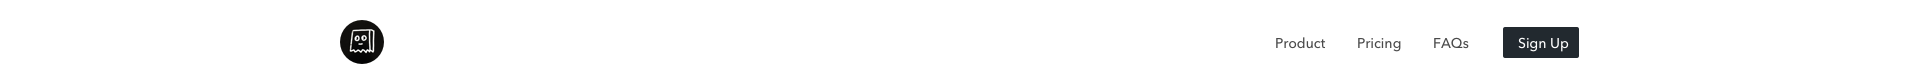
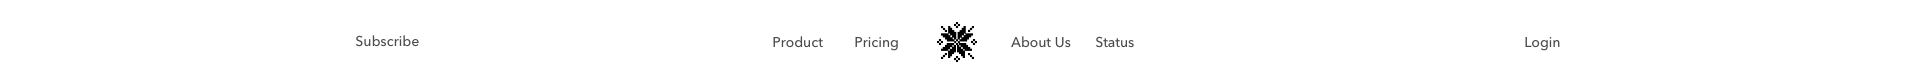
fix nav up

Changed region(s): [[0.6562, 0.3095, 0.8438, 0.6905], [0.4062, 0.3095, 0.5938, 0.7143], [0.1562, 0.2381, 0.2188, 0.7619]]

diff --git a/stitches.html b/stitches.html
@@ -6,21 +6,28 @@
     <link rel="stylesheet" type="text/css" href=./public/stitches.css>
     <title>Stitches</title>
   </head>
-  <body class="st"><nav class="font-sans bg-white text-center my-4 mx-auto max-w-sm overflow-hidden">
-  <img src="https://randomuser.me/api/portraits/women/44.jpg" class="h-16 sm:h-24 my-4 rounded-full" alt="avatar">
-  <p class="text-xl">Hyperyolo</p>
-  <p class="text-sm text-grey-dark leading-loose">twitter/@hyperyolo</p>
-</nav><nav class="font-sans bg-white text-center flex justify-between my-4 mx-auto max-w-xl overflow-hidden">
-  <a href="/" class="block text-left">
-    <img src="https://randomuser.me/api/portraits/women/44.jpg" class="h-12 sm:h-12 rounded-full" alt="avatar">
-  </a>
-  <ul class="text-sm text-grey-dark list-reset flex items-center">
-    <li><a href="#" class="inline-block py-2 px-3 text-grey-darkest hover:text-grey-dark no-underline">Products</a></li>
-    <li><a href="#" class="inline-block py-2 px-3 text-grey-darkest hover:text-grey-dark no-underline">Pricing</a></li>
-    <li><a href="#" class="inline-block py-2 px-3 text-grey-darkest hover:text-grey-dark no-underline">FAQs</a></li>
-    <button class="bg-transparent hover:bg-grey-darkest text-grey-darkest hover:text-white ml-4 py-2 px-3 border border-grey hover:border-transparent rounded">
-    Button
-    </button>
-  </ul>
-</nav></body>
+  <body>
+    <form class="font-sans text-sm rounded w-full max-w-xs mx-auto my-8 px-8 pt-6 pb-8">
+      <div class="relative border rounded mb-4 shadow appearance-none label-floating">
+        <input class="w-full py-2 px-3 text-grey-darker leading-normal rounded" id="username" type="text" placeholder="Username">
+        <label class="absolute block text-grey-darker pin-t pin-l w-full px-3 py-2 leading-normal" for="username">
+          Username
+        </label>
+      </div>
+      <div class="relative border rounded mb-4 shadow appearance-none label-floating">
+        <input class="w-full py-2 px-3 text-grey-darker leading-normal rounded" id="password" type="password" placeholder="Password">
+        <label class="absolute block text-grey-darker pin-t pin-l w-full px-3 py-2 leading-normal" for="password">
+          Password
+        </label>
+      </div>
+      <div class="flex items-center justify-between">
+        <button class="bg-grey-darkest hover:bg-black text-white py-2 px-4 rounded" type="button">
+        Sign In
+        </button>
+        <a class="inline-block align-baseline text-grey hover:text-grey-darker" href="#">
+          Forgot Password?
+        </a>
+      </div>
+    </form>
+  </body>
 </html>

diff --git a/templates/nav-4.html b/templates/nav-4.html
@@ -1,17 +1,19 @@
 <nav class="font-sans bg-white text-center flex justify-between items-center my-4 mx-auto max-w-xl overflow-hidden">
-  <button class="bg-transparent text-sm hover:text-grey-dark text-grey-darkest py-2 px-3 rounded">
-  Subscribe
-  </button>
+  <a href="#">
+    <img src="./logo.png" class="h-10" alt="logo">
+  </a>
   <ul class="text-sm text-grey-dark list-reset flex items-center">
     <li><a href="#" class="inline-block py-2 px-3 text-grey-darkest hover:text-grey-dark no-underline">Products</a></li>
     <li><a href="#" class="inline-block py-2 px-3 text-grey-darkest hover:text-grey-dark no-underline">Pricing</a></li>
-    <li class="px-6"><a href="/" >
-      <img src="./logo.png" class="h-10 sm:h-10 rounded-full" alt="logo">
-    </a></li>
     <li><a href="#" class="inline-block py-2 px-3 text-grey-darkest hover:text-grey-dark no-underline">About Us</a></li>
     <li><a href="#" class="inline-block py-2 px-3 text-grey-darkest hover:text-grey-dark no-underline">Status</a></li>
   </ul>
-  <button class="text-sm bg-grey-darkest hover:bg-grey-darker text-white ml-4 py-2 px-3 rounded">
-  Log In
-  </button>
+  <ul class="text-sm text-grey-dark list-reset flex items-center">
+    <li><a href="#" class="inline-block py-2 px-3 text-grey-darkest hover:text-grey-dark no-underline">Log In</a></li>
+    <li>
+      <button class="bg-grey-darkest hover:bg-grey-darker text-white ml-4 py-2 px-3 rounded">
+      Sign Up
+      </button>
+    </li>
+  </ul>
 </nav>

diff --git a/templates/nav-1.html b/templates/nav-1.html
@@ -1,5 +1,14 @@
-<nav class="font-sans bg-white text-center my-4 mx-auto max-w-sm overflow-hidden">
-  <img src="https://randomuser.me/api/portraits/women/44.jpg" class="h-16 sm:h-24 my-4 rounded-full" alt="avatar">
-  <p class="text-xl">Hyperyolo</p>
-  <p class="text-sm text-grey-dark leading-loose">twitter/@hyperyolo</p>
+<nav class="font-sans bg-white text-center flex justify-between my-4 mx-auto max-w-xl overflow-hidden">
+  <a href="/" class="block text-left">
+    <img src="./logo.png" class="h-10 sm:h-10 rounded-full" alt="logo">
+  </a>
+  <ul class="text-sm text-grey-dark list-reset flex items-center">
+    <li><a href="#" class="inline-block py-2 px-3 text-grey-darkest hover:text-grey-dark no-underline">Products</a></li>
+    <li><a href="#" class="inline-block py-2 px-3 text-grey-darkest hover:text-grey-dark no-underline">Pricing</a></li>
+    <li class="pr-2"><a href="#" class="inline-block py-2 px-3 text-grey-darkest hover:text-grey-dark no-underline">FAQs</a></li>
+    <li class="pl-2 border-l"><a href="#" class="inline-block py-2 px-3 text-grey-darkest hover:text-grey-dark no-underline">Log In</a></li>
+    <button class="bg-grey-darkest hover:bg-grey-darker text-white ml-4 py-2 px-3 rounded">
+    Sign Up
+    </button>
+  </ul>
 </nav>

diff --git a/templates/nav-3.html b/templates/nav-3.html
@@ -1,0 +1,20 @@
+<nav class="font-sans bg-white text-center flex justify-between my-4 mx-auto max-w-xl overflow-hidden items-center">
+  <div class="flex items-center">
+    <a href="/" class="mr-4 w-32">
+      <img src="./logo.png" class="rounded-full w-full" alt="logo">
+    </a>
+    <input type="search" placeholder="Search" class="text-sm transition focus:outline-0 border border-transparent focus:bg-white focus:border-grey-light placeholder-grey-darkest rounded bg-grey-lighter py-1 px-2 pl-10 appearance-none leading-normal ds-input">
+    <ul class="text-sm text-grey-dark list-reset flex items-center">
+      <li><a href="#" class="inline-block py-2 px-3 text-grey-darkest hover:text-grey-dark no-underline">Status</a></li>
+      <li><a href="#" class="inline-block py-2 px-3 text-grey-darkest hover:text-grey-dark no-underline">Questions</a></li>
+    </ul>
+  </div>
+  <ul class="text-sm text-grey-dark list-reset flex items-center">
+    <li><a href="#" class="inline-block py-2 px-3 text-grey-darkest hover:text-grey-dark no-underline">Log In</a></li>
+    <li>
+          <button class="bg-grey-darkest hover:bg-grey-darker text-white ml-4 py-2 px-3 rounded">
+    Sign Up
+    </button>
+    </li>
+  </ul>
+</nav>

diff --git a/templates/form-1.html b/templates/form-1.html
@@ -1,0 +1,22 @@
+<form class="font-sans text-sm rounded w-full max-w-xs mx-auto my-8 px-8 pt-6 pb-8">
+  <div class="relative border rounded mb-4 shadow appearance-none label-floating">
+    <input class="w-full py-2 px-3 text-grey-darker leading-normal rounded" id="username" type="text" placeholder="Username">
+    <label class="absolute block text-grey-darker pin-t pin-l w-full px-3 py-2 leading-normal" for="username">
+      Username
+    </label>
+  </div>
+  <div class="relative border rounded mb-4 shadow appearance-none label-floating">
+    <input class="w-full py-2 px-3 text-grey-darker leading-normal rounded" id="password" type="password" placeholder="Password">
+    <label class="absolute block text-grey-darker pin-t pin-l w-full px-3 py-2 leading-normal" for="password">
+      Password
+    </label>
+  </div>
+  <div class="flex items-center justify-between">
+    <button class="bg-grey-darkest hover:bg-black text-white py-2 px-4 rounded" type="button">
+    Sign In
+    </button>
+    <a class="inline-block align-baseline text-grey hover:text-grey-darker" href="#">
+      Forgot Password?
+    </a>
+  </div>
+</form>

diff --git a/index.html b/index.html
@@ -36,10 +36,6 @@
         <img src="./blocks/nav-2.png" alt="" id="nav-2" class="snippet st-nav">
         <img src="./blocks/nav-3.png" alt="" id="nav-3" class="snippet st-nav">
         <img src="./blocks/nav-4.png" alt="" id="nav-4" class="snippet st-nav">
-        <img src="./blocks/nav-5.png" alt="" id="nav-5" class="snippet st-nav">
-        <img src="./blocks/nav-6.png" alt="" id="nav-6" class="snippet st-nav">
-        <img src="./blocks/nav-7.png" alt="" id="nav-7" class="snippet st-nav">
-        <img src="./blocks/nav-8.png" alt="" id="nav-8" class="snippet st-nav">
         <img src="./blocks/hero-1.png" alt="" id="hero-1" class="snippet st-hero">
         <img src="./blocks/hero-2.png" alt="" id="hero-2" class="snippet st-hero">
         <img src="./blocks/hero-3.png" alt="" id="hero-3" class="snippet st-hero">

diff --git a/public/stitches.css b/public/stitches.css
@@ -8479,6 +8479,19 @@ button,
   z-index: auto;
 }
 
+/* Stitches classes */
+
+.label-floating input:not(:placeholder-shown) {
+  padding-top: 1.4rem;
+}
+
+.label-floating input:not(:placeholder-shown) ~ label {
+  padding-top: .4rem;
+  font-size: .7rem;
+  transition: all .1s ease-in-out;
+  color: #8795a1;
+}
+
 @media (min-width: 320px) {
   .xs\:list-reset {
     list-style: none;

diff --git a/stitches.css b/stitches.css
@@ -2,3 +2,14 @@
 @tailwind utilities;
 @tailwind components;
 @tailwind utilities;
+
+/* Stitches classes */
+.label-floating input:not(:placeholder-shown) {
+  padding-top: 1.4rem;
+}
+.label-floating input:not(:placeholder-shown) ~ label {
+  padding-top: 0.4rem;
+  font-size: 0.7rem;
+  transition: all 0.1s ease-in-out;
+  color: #8795a1;
+}

diff --git a/style.css b/style.css
@@ -105,6 +105,14 @@ button.btn--isSelected {
 }
 .droppable .snippet {
   margin-bottom: -1px;
+  border: none;
+}
+.droppable .snippet:hover {
+  transform: scale(1.03);
+  transition: 0.1s;
+  box-shadow: 3px 3px 10px rgba(77, 161, 255, 0.07);
+  border: 1px solid #e9eff4;
+  border-radius: 3px;
 }
 .snippets {
   column-count: 2;
